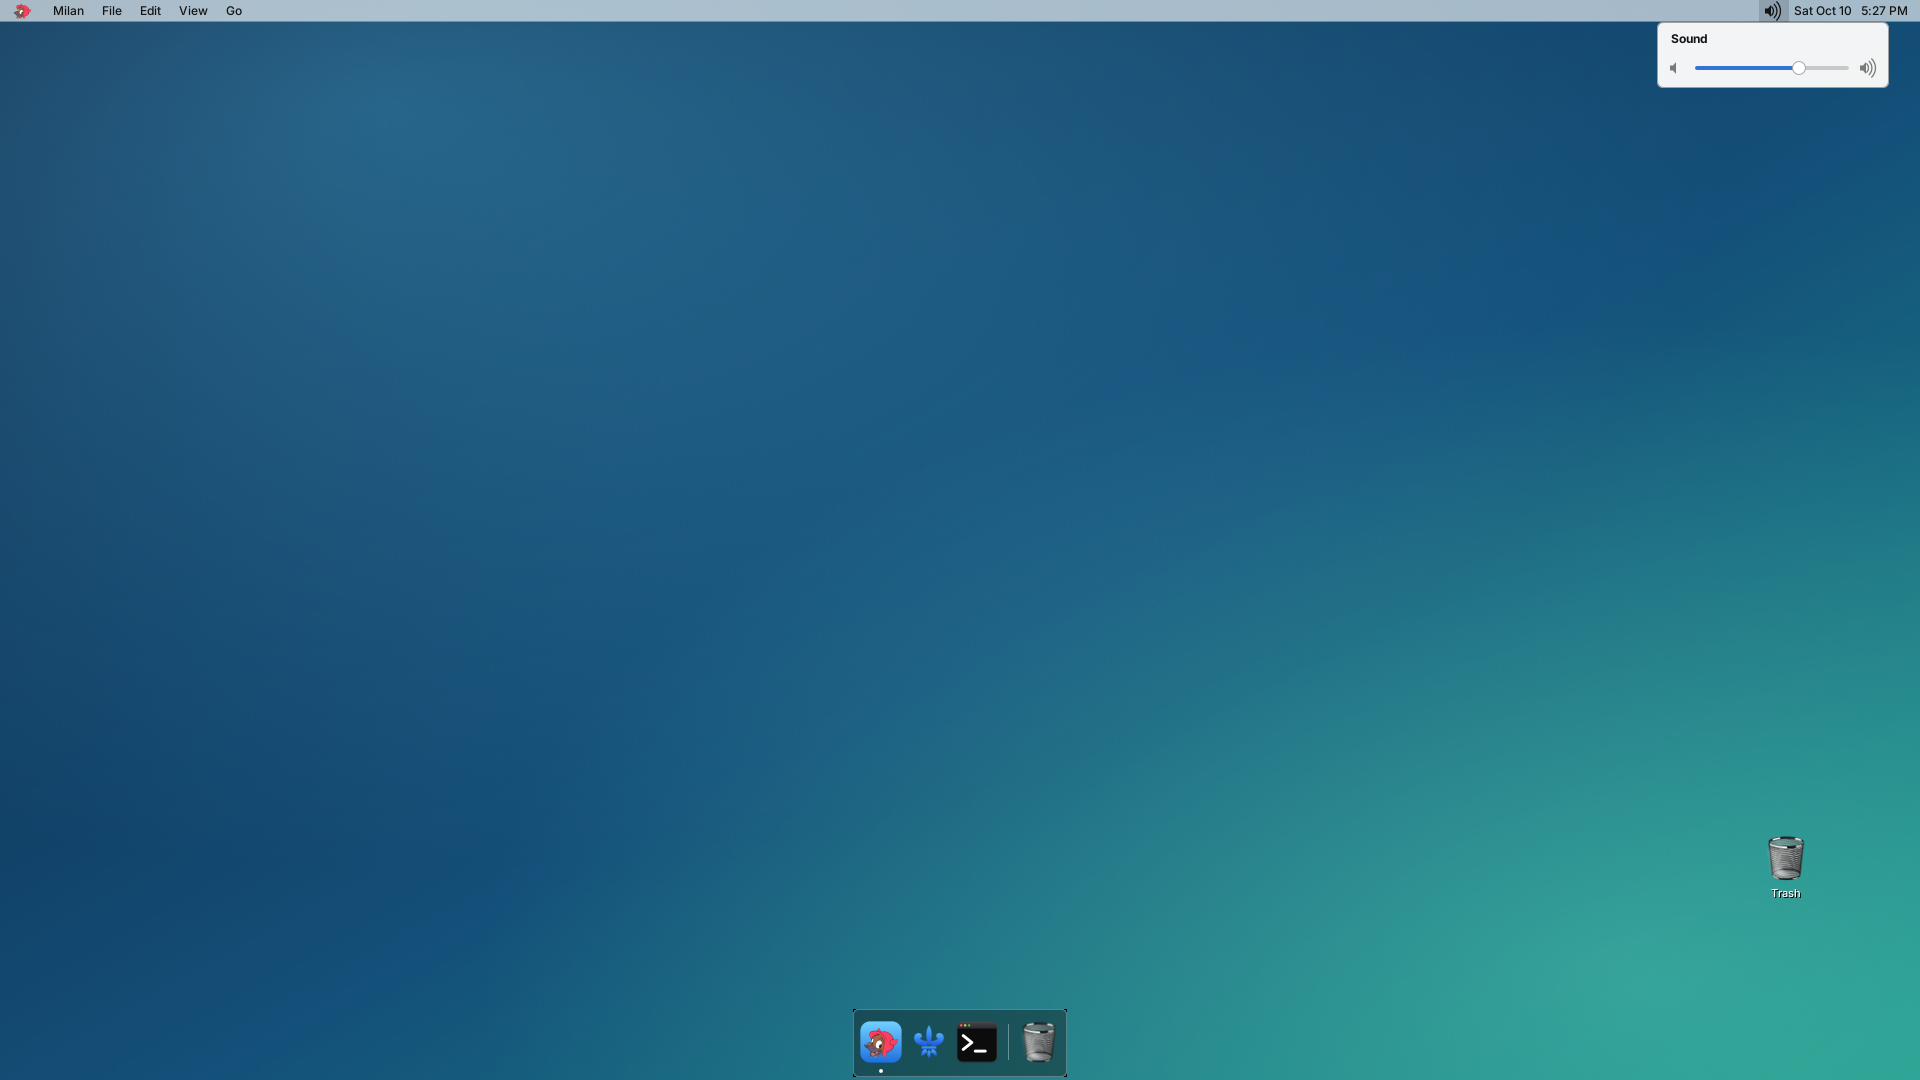
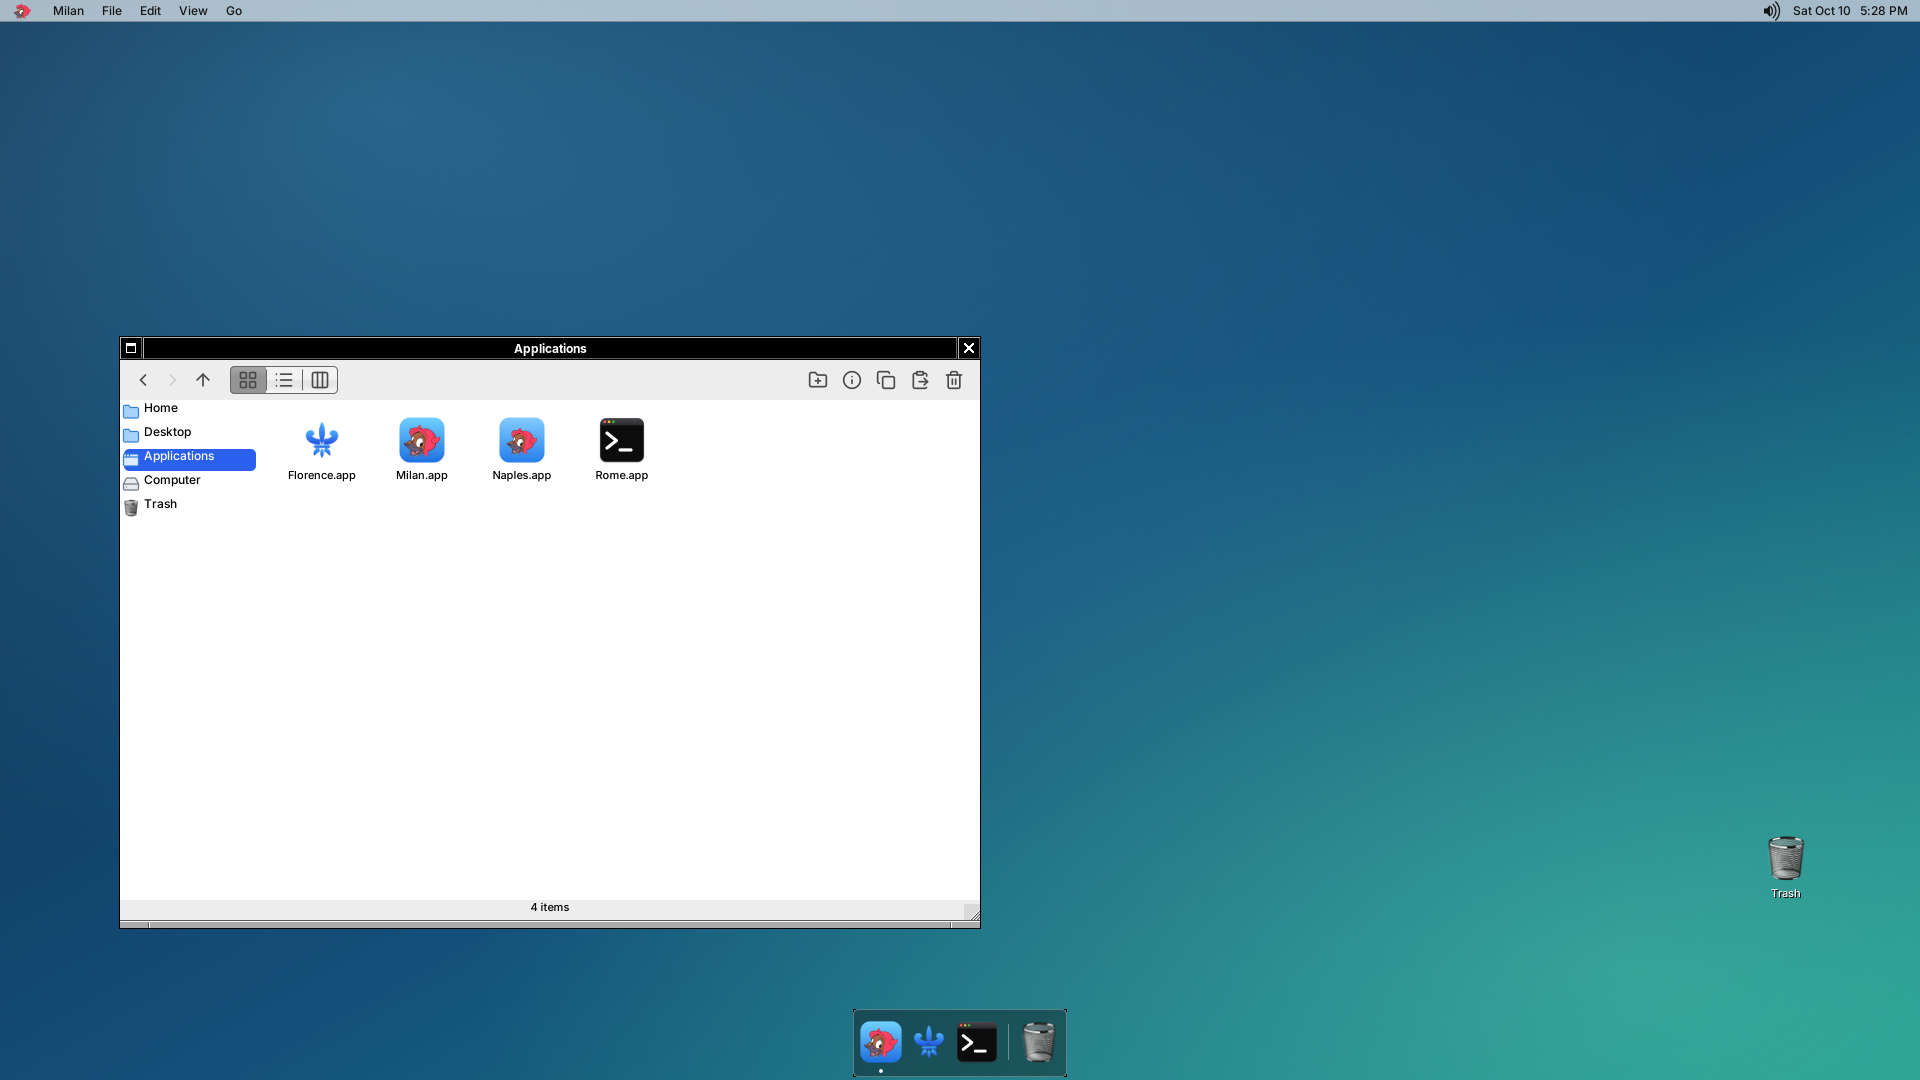
Header screenshot with a browser window open (Applications)

Changed region(s): [[0.0625, 0.3056, 0.5312, 0.8861], [0.8438, 0.0, 1.0, 0.0917]]

diff --git a/README.md b/README.md
@@ -1,4 +1,4 @@
-<p align="center"><img src="docs/header.png" alt="Milan drawing the desktop on a Raspberry Pi 3 (wallpaper and Trash), with the Naples menu bar and dock" width="100%"></p>
+<p align="center"><img src="docs/header.png" alt="Milan on a Raspberry Pi 3: a browser window on Applications over the desktop it draws, with the Naples menu bar and dock" width="100%"></p>
 
 # Milan
 
